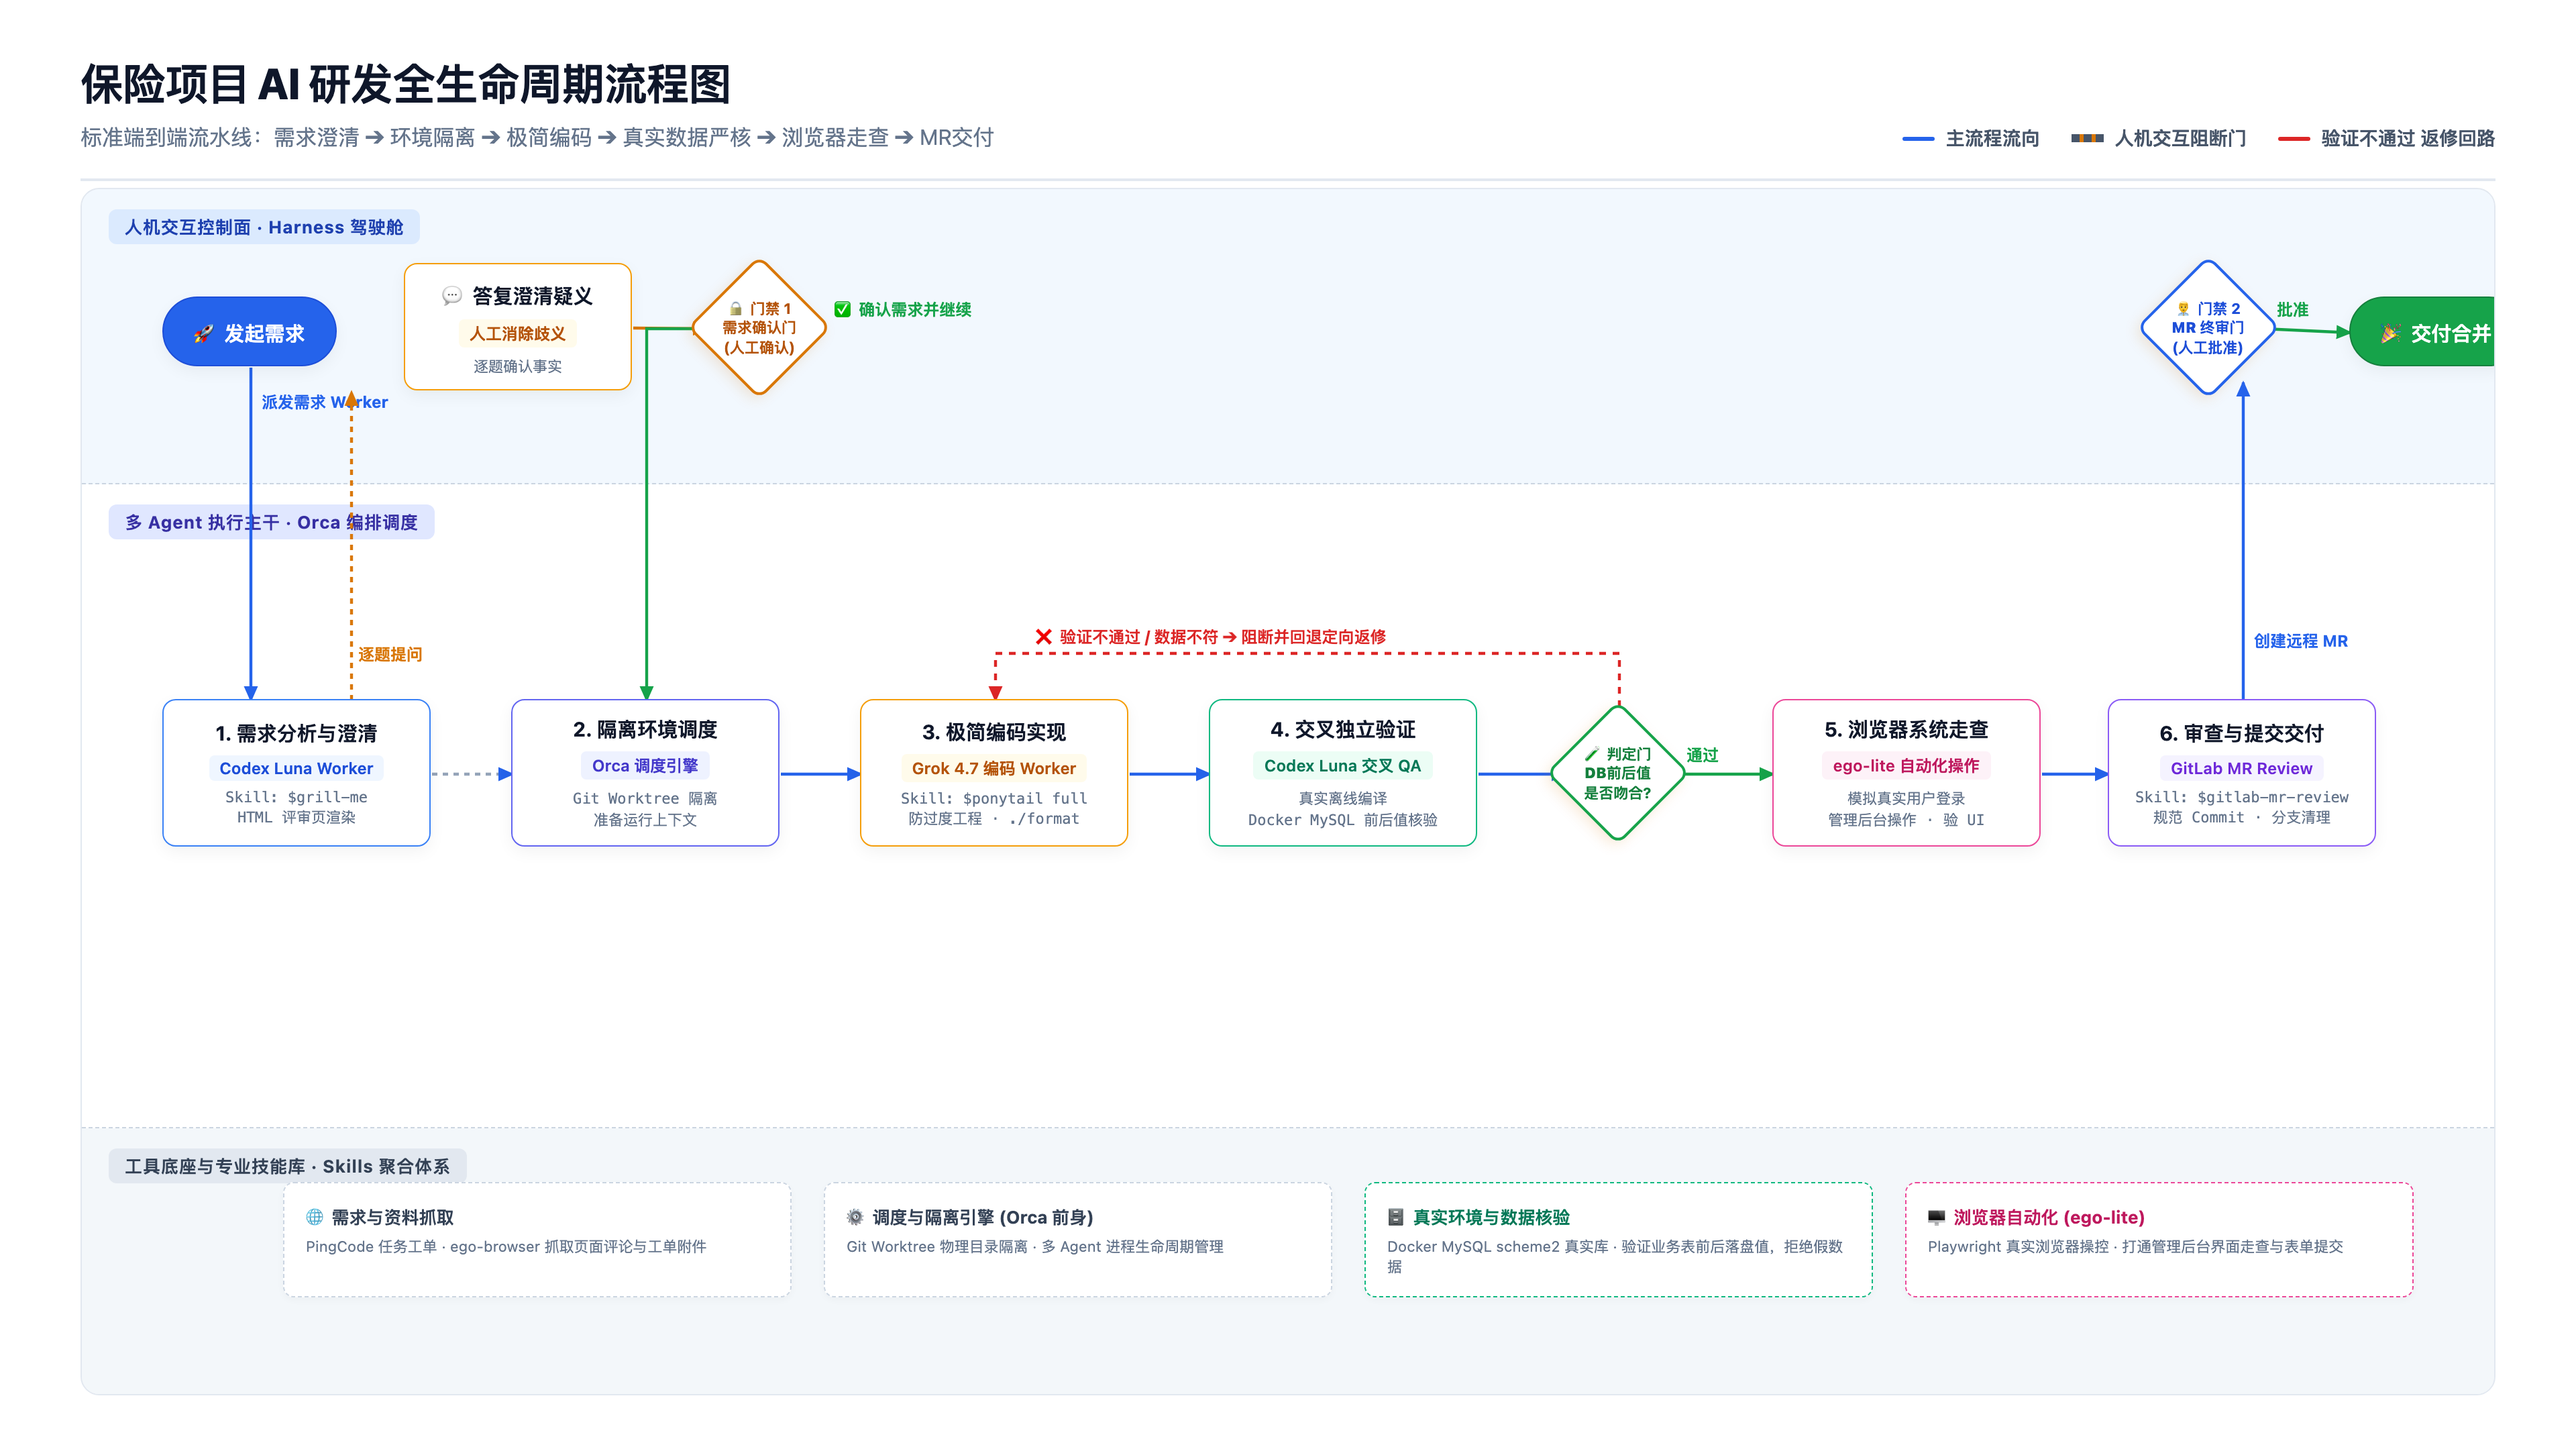
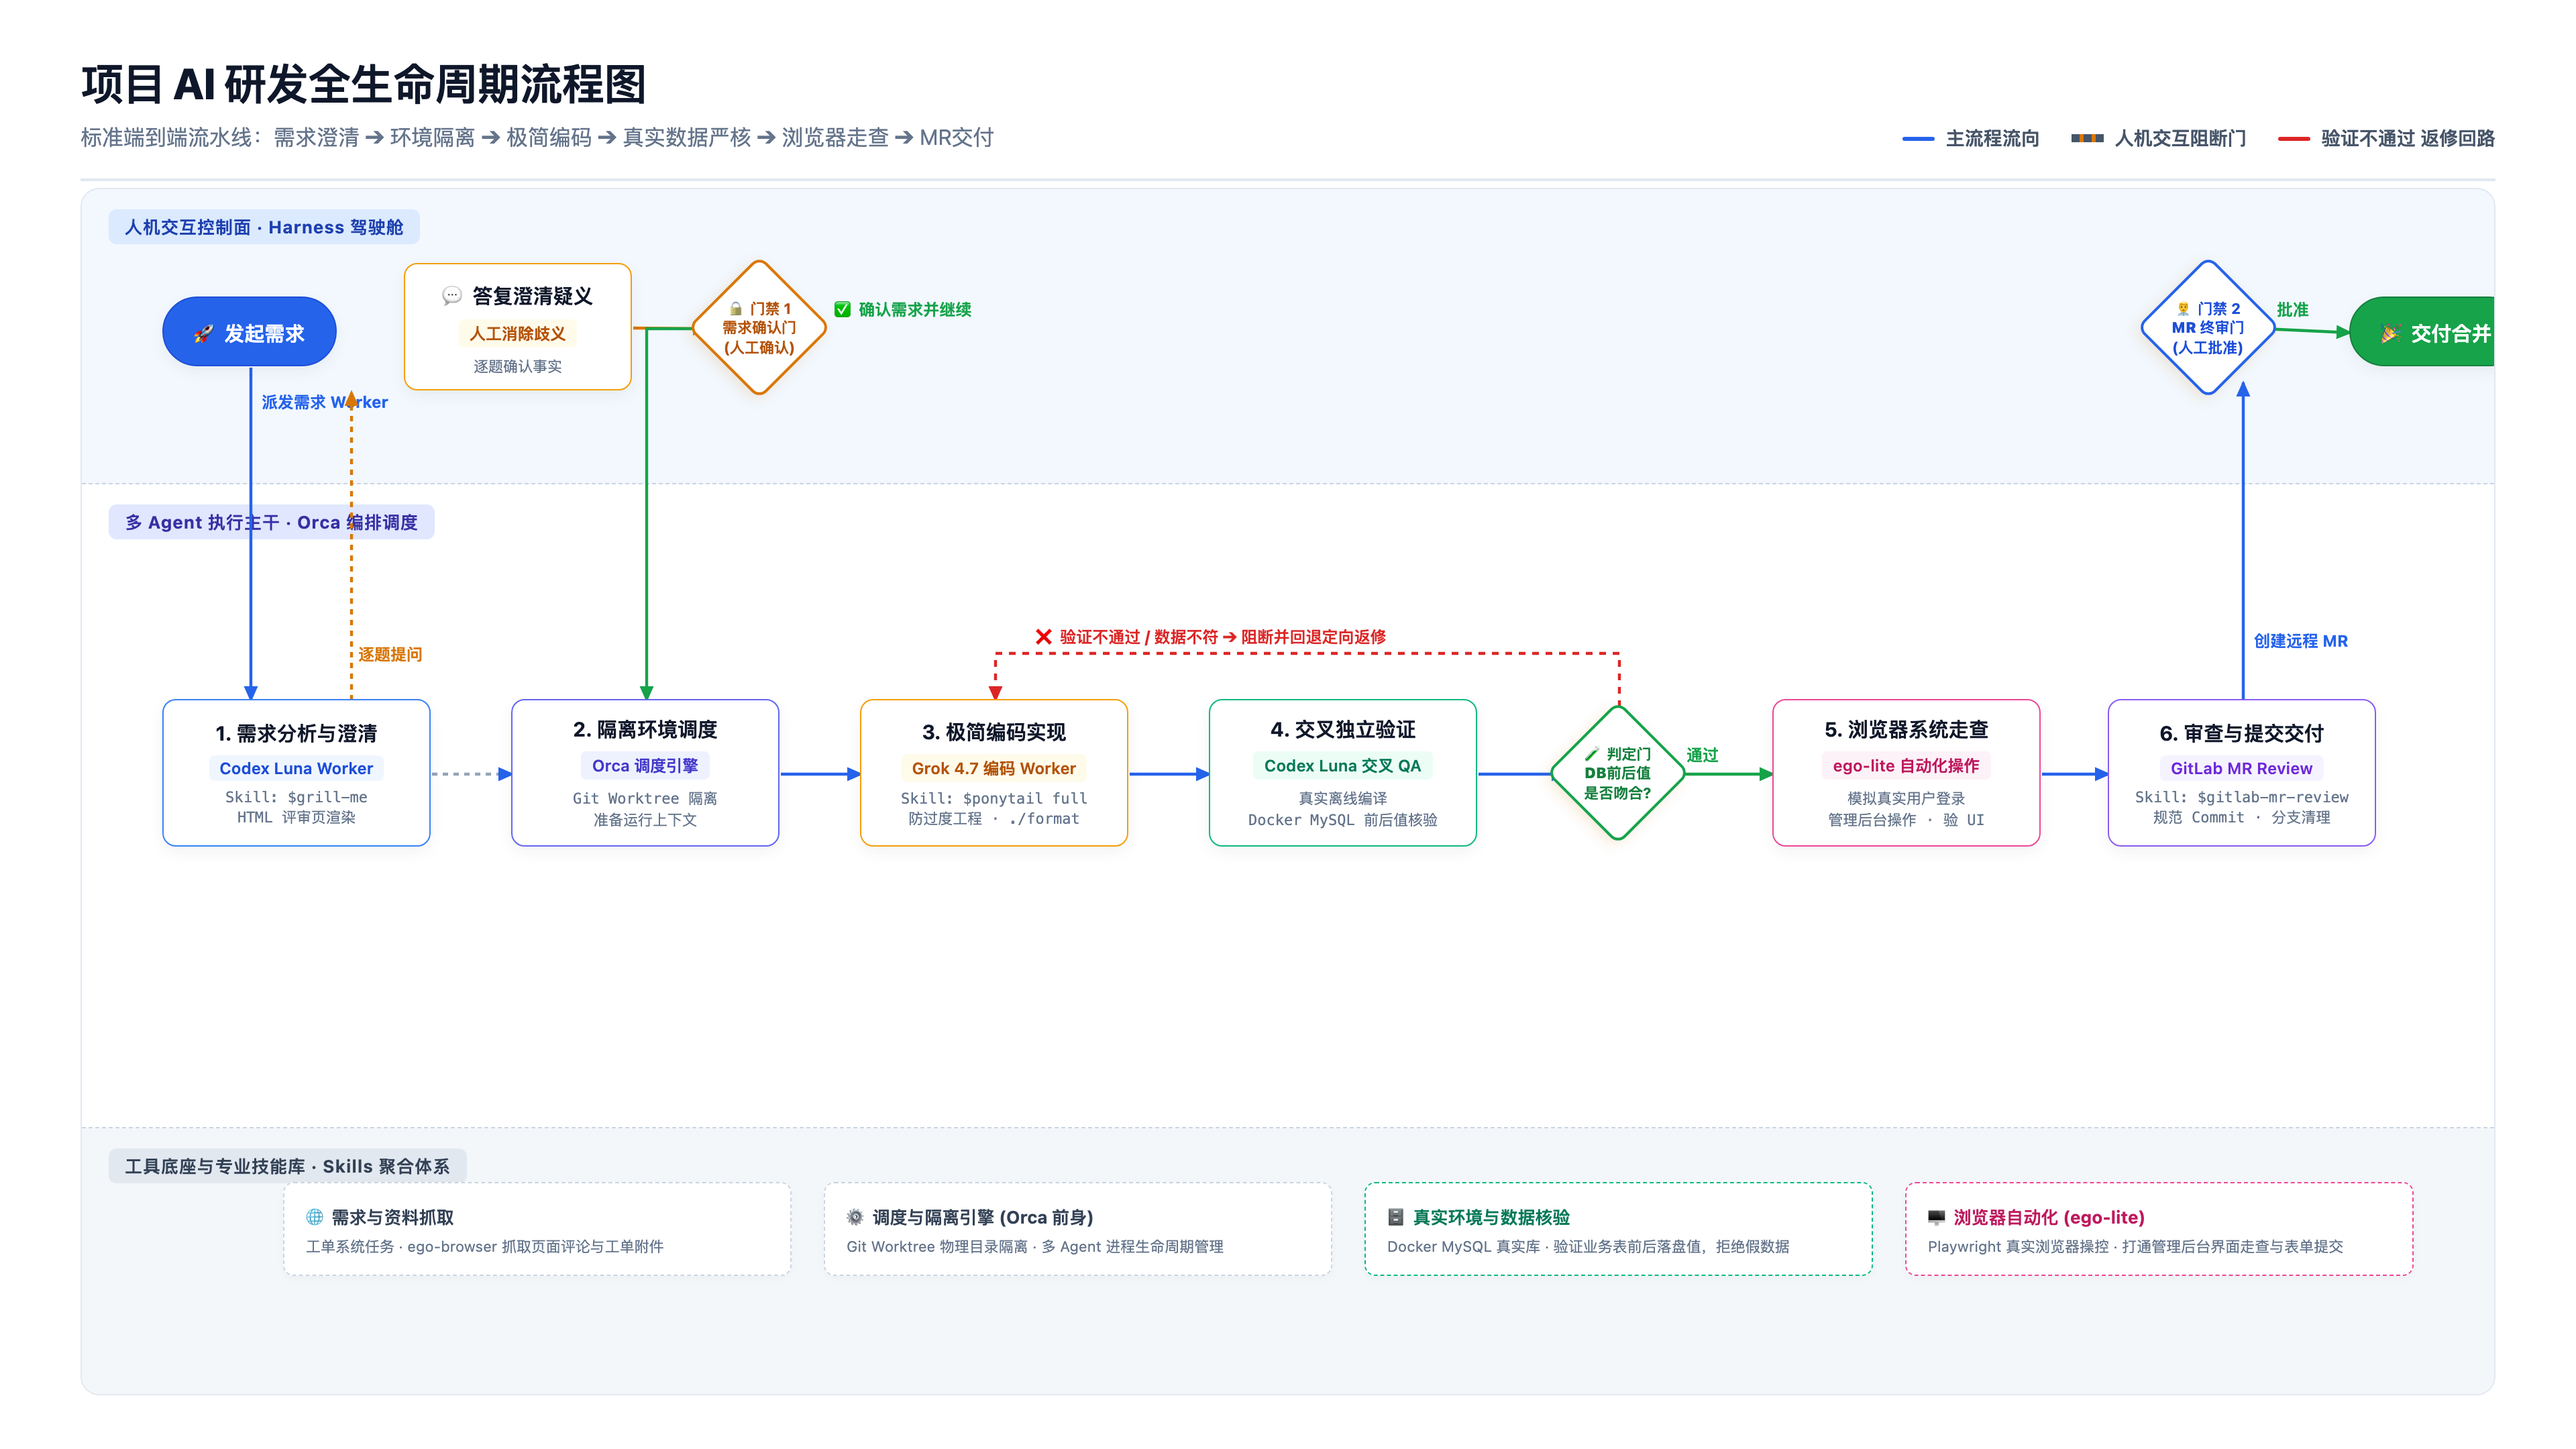
refactor: generalize project wording (remove domain-specific keywords) and update generic flowchart

Changed region(s): [[0.0312, 0.031, 0.2812, 0.0931], [0.125, 0.8375, 0.2812, 0.8685], [0.5938, 0.8375, 0.7188, 0.8685]]

diff --git a/skills/dev-lifecycle/references/engineering-preflight.md b/skills/dev-lifecycle/references/engineering-preflight.md
@@ -26,7 +26,7 @@
 - 需要连接本地不可达的真实 Elasticsearch、Redis、RocketMQ/MQ 等中间件的测试直接标记“未运行/跳过”；不查找公网地址、不连接外部实例、不反复重试。改动相关且使用 mock 的单元测试可按定向范围运行。
 - Java/Maven 项目运行测试前，先读取项目实际测试配置，不要直接假设 shell 的 `mvn`、默认仓库和 JDK 与 IDEA 一致。用户当前 IDEA 配置基准为 Maven 3.8.6：`/xxx/path/to/apache-maven-xxx`，settings 为该目录下 `conf/settings.xml`，本地仓库为 `/xxx/path/to/maven-work`。每次仍须核验这些路径与 IDEA 当前设置一致且可用；若用户提供了更新配置，以更新值为准。优先检查 `.idea/workspace.xml` 中 `MavenGeneralSettings` 的 `customMavenHome`、`userSettingsFile`、`localRepository`；若文件缺失或值无法读取，以用户提供的 IDEA Maven 截图或路径说明作为本机开发配置依据。核实 Maven 安装路径和 `-version`、settings 文件、本地仓库及 JDK，并记录本次采用的版本与配置来源。仓库内有 `scripts/mvn-offline-verified.sh` 时，所有 Maven 编译和测试必须经该脚本执行；它从已核实的 settings 读取仓库路径并校验 JDK 11，不要自行补写 `~/.m2/repository` 或 `-Dmaven.repo.local`。脚本不存在时，使用已核实的 Maven 绝对路径和 `-s` settings；settings 已配置本地仓库时不要额外覆盖它。命令行必须使用核实后的 Maven 可执行文件和 settings；配置缺失、矛盾或脚本拒绝执行时先报告阻断，不得绕过门禁改用另一仓库。
 - 这项核验是 Worker 构建/测试的开工硬门：协调者先核定并记录 `MAVEN_BIN`、Maven 版本、`JAVA_HOME`/Java 版本、settings、本地仓库、离线脚本是否存在，再把这些绝对路径和可直接执行的命令写进 Worker 任务。不得只要求 Worker“自行发现工具链”，也不得由 Worker 按 PATH、Maven 默认 settings 或 `~/.m2/repository` 选择替代配置。
-- 开发 Worker 的完成门必须包含格式化与生产源码编译：派发实现 Task 前，协调者把已核验工具链和最小受影响模块离线编译命令写入任务；实现 Worker 在同一 Task 内，最后一次源码修改后先运行仓库规定的格式化（保险代理人 Java 仓库为 `./format`），再运行该离线编译，并报告实际命令和完整结果。任一失败都在该实现 Task 内修复并重跑；不能把“开发完成”设在格式化/编译之前，也不能为补做这些开发完成条件而另开纯格式化/编译 Task。编译后再改代码时，重新执行格式化和编译。协调者核验 transcript 与最终 diff 后才派发 QA；QA 的 `testCompile`/测试结果仍由独立验证 Worker 验证，生产代码 `compile` 不能替代测试编译或行为验收。
+- 开发 Worker 的完成门必须包含格式化与生产源码编译：派发实现 Task 前，协调者把已核验工具链和最小受影响模块离线编译命令写入任务；实现 Worker 在同一 Task 内，最后一次源码修改后先运行仓库规定的格式化（项目 Java 仓库为 `./format`），再运行该离线编译，并报告实际命令和完整结果。任一失败都在该实现 Task 内修复并重跑；不能把“开发完成”设在格式化/编译之前，也不能为补做这些开发完成条件而另开纯格式化/编译 Task。编译后再改代码时，重新执行格式化和编译。协调者核验 transcript 与最终 diff 后才派发 QA；QA 的 `testCompile`/测试结果仍由独立验证 Worker 验证，生产代码 `compile` 不能替代测试编译或行为验收。
 - Worker 报告测试完成后，协调者必须从实际命令/transcript 核对 Maven 版本、Java 版本、`-s`/脚本参数及仓库是否与预检记录一致，并确认 Surefire 实际执行目标用例。任一项不匹配时，不接受该次结果作为验收证据；先纠正工具链，再只重跑受影响的定向命令。重复出现私有依赖缺失时，先在正确的本地仓库核对 POM/JAR，避免在错误仓库反复运行。
 - 聚焦测试若失败于 `testCompile`，先读取首个完整编译错误，并在测试源码定位报错行；核对对应类型是否存在、实际 package、当前 import 和测试模块可见依赖。不能把“找不到符号”笼统归因为 Maven/环境问题，也不能只复跑命令。若类型存在于另一 package 且测试缺少 import，明确归因为测试源码编译错误并记录最小修复；缺依赖、生成类型缺失或生产编译错误则分别归因。测试类未成功编译时，Surefire 目标用例执行数为 0，所有依赖这些用例的验收条件均为“未验证/阻断”，不得报告测试通过。按 QA Task 授权修正后，触及 Java 要运行 `./format`，并重跑该聚焦类确认 Surefire 实际执行的用例及结果。
 - Maven 报依赖缺失时，先比较实际 Maven 版本、settings、本地仓库路径和缓存来源，并在选定仓库中核对依赖声明及 POM/JAR 是否存在；错误仓库缺少缓存不代表开发仓库也缺依赖。不要在错误的默认仓库上反复重跑，也不要把 IDEA Application 能启动当作本次代码已编译或测试通过。用户明确要求补依赖时，按其授权在项目实际使用的仓库中补齐，并继续运行测试。

diff --git a/skills/dev-lifecycle/references/workflow-and-coordination.md b/skills/dev-lifecycle/references/workflow-and-coordination.md
@@ -1,6 +1,6 @@
 # 工作流与 Agent 协作
 
-在任务跨阶段、需要多个角色或多个 Agent 时使用。普通小改动可省略正式方案或复杂 DAG；保险业务 Bug 修复和需求开发默认先由独立 Codex 子 Worker 做需求分析，并通过 Harness 完成问题答复和需求确认。用户明确说不需要需求分析时才可跳过。
+在任务跨阶段、需要多个角色或多个 Agent 时使用。普通小改动可省略正式方案或复杂 DAG；项目业务 Bug 修复和需求开发默认先由独立 Codex 子 Worker 做需求分析，并通过 Harness 完成问题答复和需求确认。用户明确说不需要需求分析时才可跳过。
 
 ## 主流程与子 Agent 分工
 
